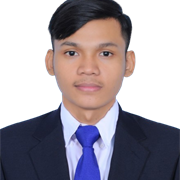
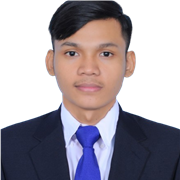
update icon1

diff --git a/PENG_SAMNANG/index.html b/PENG_SAMNANG/index.html
@@ -2,8 +2,9 @@
 <html lang="en">
   <head>
     <meta charset="UTF-8" />
+    <link rel="icon" type="image/png" sizes="48x48" href="/favicon-48x48.png" />
     <link rel="icon" type="image/png" sizes="192x192" href="/favicon.png" />
-    <link rel="shortcut icon" href="/favicon.png" />
+    <link rel="shortcut icon" href="/favicon.ico" />
     <link rel="apple-touch-icon" sizes="180x180" href="/apple-touch-icon.png" />
     <link rel="manifest" href="/site.webmanifest" />
     <meta name="viewport" content="width=device-width, initial-scale=1.0" />
@@ -46,7 +47,7 @@
         "name": "Peng Samnang",
         "url": "https://www.pengsamnang.site/",
         "image": "https://www.pengsamnang.site/profile.jpg",
-        "logo": "https://www.pengsamnang.site/favicon.png",
+        "logo": "https://www.pengsamnang.site/favicon-512x512.png",
         "jobTitle": "Full-Stack Web Developer",
         "sameAs": [
           "https://github.com/pengsamnang",
